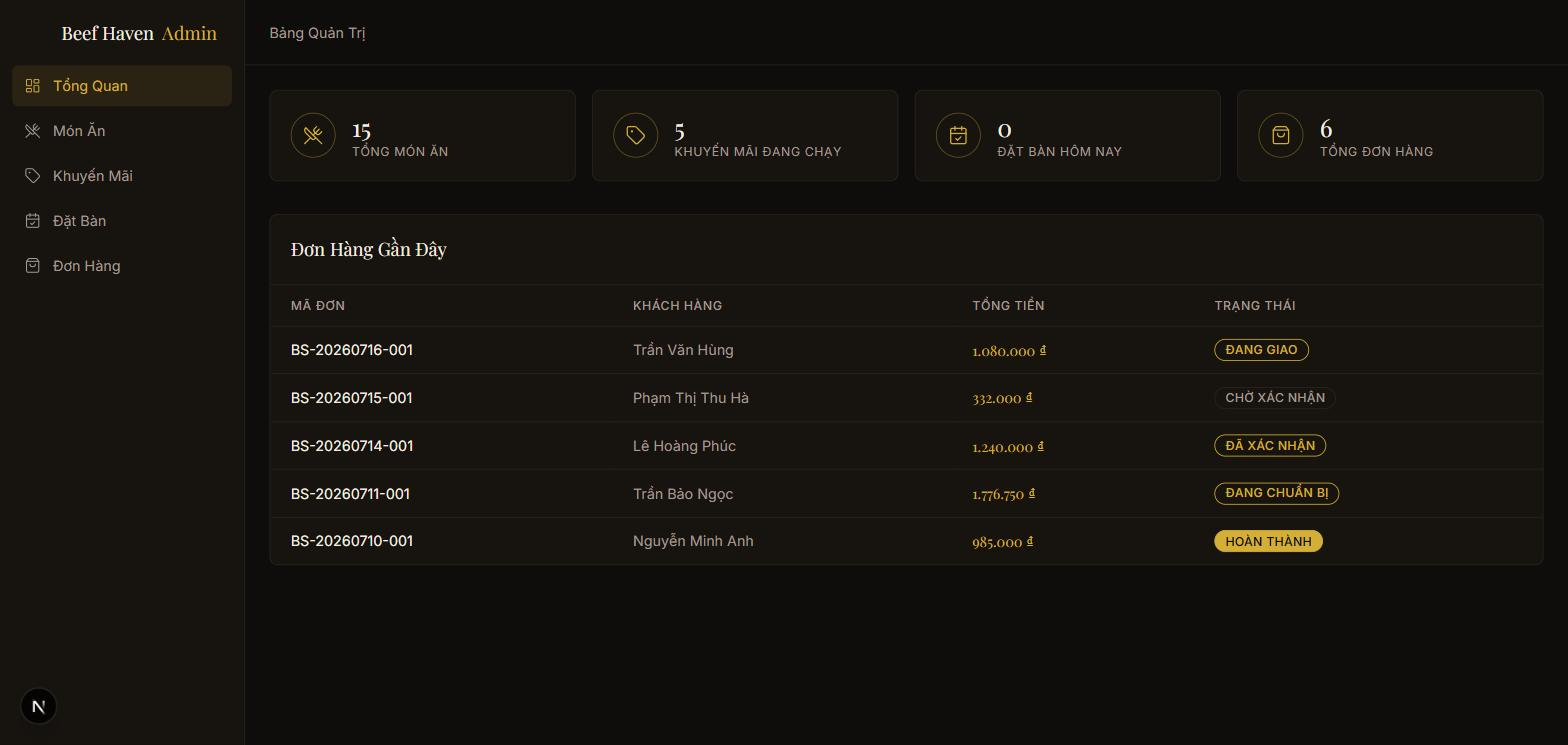
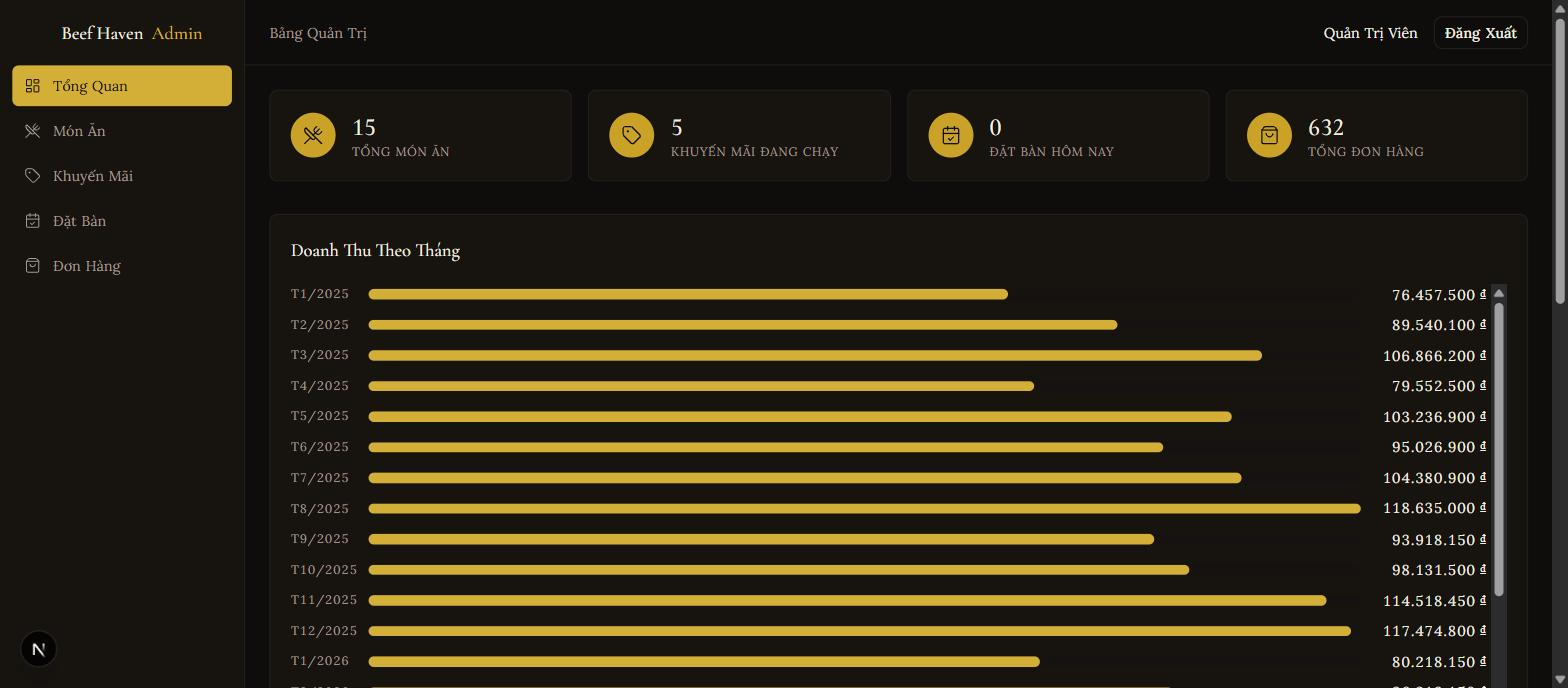
docs: cập nhật README theo các thay đổi mới (#7)
- Phía quản trị: ghi rõ tìm kiếm và sắp xếp giờ chạy server, xuyên toàn bộ
  632 đơn, trạng thái nằm ở URL
- Song ngữ: bổ sung là đã phủ cả khu quản trị
- Số test 114 -> 125, CI ghi rõ chạy npm ci
- Thêm mục 5 vào phần vấn đề khó nhất: whitelist cột trước khi vào orderBy,
  tiêu chí sắp xếp phụ để phân trang không lặp dòng, và bẫy React 19 nuốt
  submit của form GET thiếu action=""
- Sơ đồ cấu trúc đã lỗi thời từ lúc thêm i18n: mọi page nằm trong [locale],
  bổ sung lib/admin và lib/i18n-content.ts

Ảnh khu quản trị chụp lại: bản cũ hiện 6 đơn hàng trong khi README nói 632,
và thiếu hẳn biểu đồ doanh thu, biểu đồ trạng thái, top món/khách. Thêm ảnh
bản tiếng Anh đang sắp xếp theo tổng tiền để thấy cả i18n lẫn sort server.

diff --git a/README.md b/README.md
@@ -25,7 +25,13 @@ Website nhà hàng bít tết đầy đủ hai phía: khách đặt món/đặt 
 |---|---|
 | ![Thực đơn](screenshots/thuc-don.jpg) | ![Đánh giá](screenshots/danh-gia.jpg) |
 
-![Khu quản trị](screenshots/admin.jpg)
+**Khu quản trị — dashboard thống kê từ 19 tháng dữ liệu**
+
+![Dashboard quản trị](screenshots/admin.jpg)
+
+**Cùng khu đó ở bản tiếng Anh, đang sắp xếp theo tổng tiền giảm dần** — dòng đầu là đơn lớn nhất trong cả 632 đơn, không phải lớn nhất của trang đang xem:
+
+![Khu quản trị bản tiếng Anh](screenshots/admin-en.jpg)
 
 ---
 
@@ -42,15 +48,16 @@ Website nhà hàng bít tết đầy đủ hai phía: khách đặt món/đặt 
 
 **Phía quản trị** (`/admin`, chặn theo `role` trong **từng** Server Action)
 
-- Dashboard: doanh thu tháng, số đơn, đặt bàn hôm nay, món bán chạy
-- CRUD món ăn và khuyến mãi
+- Dashboard: doanh thu theo tháng, đơn theo trạng thái, món bán chạy, khách mua nhiều nhất
+- CRUD món ăn và khuyến mãi, nhập được cả bản dịch tiếng Anh cho từng bản ghi
 - Đổi trạng thái đơn hàng (6 trạng thái) và đặt bàn (5 trạng thái)
-- Phân trang server-side qua `searchParams`
+- Bảng đơn hàng / đặt bàn: **phân trang, tìm kiếm và sắp xếp đều chạy trên server** — tìm và xếp xuyên toàn bộ 632 đơn chứ không chỉ trong trang đang xem. Toàn bộ trạng thái nằm ở URL (`?q=&sort=&dir=&page=`) nên chia sẻ link hay bấm Back đều giữ đúng cái đang xem
 
 **Song ngữ Việt / Anh**
 
 - Tiếng Việt ở URL gốc (`/thuc-don`), tiếng Anh ở `/en/thuc-don` — mọi URL cũ giữ nguyên
 - Dịch cả **nội dung trong database**: tên món, mô tả, tiêu đề và badge khuyến mãi
+- Phủ **cả khu quản trị**, không riêng phía khách
 - `hreflang` + canonical trỏ đúng bản đang xem, sitemap có cả hai ngôn ngữ
 - Đánh giá của khách **không dịch** — giữ nguyên ngôn ngữ người viết, đúng thực tế
 
@@ -58,7 +65,7 @@ Website nhà hàng bít tết đầy đủ hai phía: khách đặt món/đặt 
 
 - `generateMetadata` theo từng trang, `sitemap.xml` sinh từ DB, `robots.txt`
 - JSON-LD `Restaurant` + `Menu`
-- Trang lỗi và 404 riêng, **114 unit test** (Vitest), CI chạy lint + test + build mỗi push
+- Trang lỗi và 404 riêng, **125 unit test** (Vitest), CI chạy `npm ci` → migrate → lint → test → build mỗi push
 
 ---
 
@@ -175,7 +182,7 @@ Các cột `*En` (trên `Category`, `Dish`, `Promotion`) là bản dịch tiến
 
 ---
 
-## 4 vấn đề khó nhất và cách giải
+## 5 vấn đề khó nhất và cách giải
 
 ### 1. Discount engine dùng chung client/server mà không tin client
 
@@ -216,6 +223,20 @@ Cách giải: mọi page bắt buộc đi qua tầng `src/lib/data/*`, và các 
 
 Kết quả khi cắm Postgres thật: chỉ thay **ruột** các hàm trong `lib/data/`, giữ nguyên chữ ký — không page nào phải sửa. Cùng lý do đó, đổi từ SQLite sang Neon Postgres sau này cũng chỉ là đổi driver adapter, không lan ra tầng UI.
 
+### 5. Bảng quản trị 632 dòng: tìm và sắp xếp trên server, không phải trong trang
+
+Bản đầu phân trang server-side nhưng tìm kiếm và sắp xếp vẫn chạy client — nghĩa là chúng chỉ thao tác trên 20 dòng đang hiển thị. Gõ tên một khách đặt bàn từ tháng 1/2025 thì không ra gì, dù bản ghi đó có thật. Đây là loại lỗi trông như "đã xong" cho tới khi có người dùng thật.
+
+Đẩy cả hai xuống database thì phát sinh ba vấn đề không hiển nhiên:
+
+- **`sort` từ URL đi thẳng vào `orderBy` của Prisma.** Tên cột lạ làm truy vấn ném lỗi (khách thấy trang 500) và cho người ngoài dò được tên cột trong schema. Giải bằng whitelist khai ngay cạnh hàm query, giá trị không khớp thì rơi về mặc định.
+- **Phân trang không ổn định nếu thiếu tiêu chí sắp xếp phụ.** Sắp theo cột có nhiều giá trị trùng — nhiều đơn cùng tổng tiền, nhiều bàn cùng ngày — thì Postgres không bảo đảm thứ tự giữa hai truy vấn khác `OFFSET`. Hệ quả: cùng một bản ghi xuất hiện ở cả trang 1 lẫn trang 2, hoặc biến mất hẳn. Thêm `{ id: "asc" }` làm tiêu chí phụ là hết.
+- **Form GET thay thế toàn bộ query string.** Đang sắp xếp theo tổng tiền rồi gõ tìm kiếm là mất thứ tự, nên `sort`/`dir` phải đi kèm dưới dạng hidden input — nhưng cố ý *không* mang theo `page`, vì tìm kiếm mới thì phải quay về trang 1.
+
+Toàn bộ trạng thái bảng nằm ở URL nên chia sẻ link, refresh hay bấm Back đều giữ đúng cái đang xem — thứ mà state trong React không làm được.
+
+Một chi tiết chỉ browser mới bắt được: form tìm kiếm viết `<form>` GET thuần, không `useRouter`. Thiếu thuộc tính `action=""` thì **React 19 nuốt luôn sự kiện submit** — bấm Enter lẫn bấm nút đều im lặng không làm gì, trong khi lint, test và build đều xanh.
+
 ---
 
 ## Chạy trên máy
@@ -238,7 +259,7 @@ npm run dev                 # http://localhost:3000
 Các lệnh khác:
 
 ```bash
-npm test          # Vitest, 114 test
+npm test          # Vitest, 125 test
 npm run lint      # ESLint
 npm run build     # Next production build
 ```
@@ -252,10 +273,11 @@ Lưu ý về `.env`: `DATABASE_URL` nên là connection **pooled** (PgBouncer) c
 ```
 src/
 ├── app/
-│   ├── (public)/           # trang khách — có Header/Footer
-│   ├── (auth)/             # đăng nhập, đăng ký — layout tối giản
-│   ├── admin/              # khu quản trị — sidebar riêng
-│   ├── sitemap.ts          # sinh từ DB
+│   ├── [locale]/           # mọi page nằm trong đây — root layout phải biết locale
+│   │   ├── (public)/       # trang khách — có Header/Footer
+│   │   ├── (auth)/         # đăng nhập, đăng ký — layout tối giản
+│   │   └── admin/          # khu quản trị — sidebar riêng
+│   ├── sitemap.ts          # sinh từ DB — ở ngoài [locale] vì không phải page
 │   └── robots.ts
 ├── components/             # ui/ (shadcn) + theo miền: home, menu, admin, review...
 ├── lib/
@@ -264,6 +286,8 @@ src/
 │   ├── promotions/apply.ts # ⭐ discount engine, hàm thuần
 │   ├── validations/        # schema Zod dùng chung client/server
 │   ├── auth/               # requireAdminSession()
+│   ├── admin/              # parse + whitelist searchParams của bảng admin
+│   ├── i18n-content.ts     # chọn bản dịch cho dữ liệu DB, rơi về tiếng Việt
 │   └── seo/                # JSON-LD
 ├── i18n/                   # ⭐ routing locale, Link/router locale-aware
 ├── store/cart.ts           # Zustand
